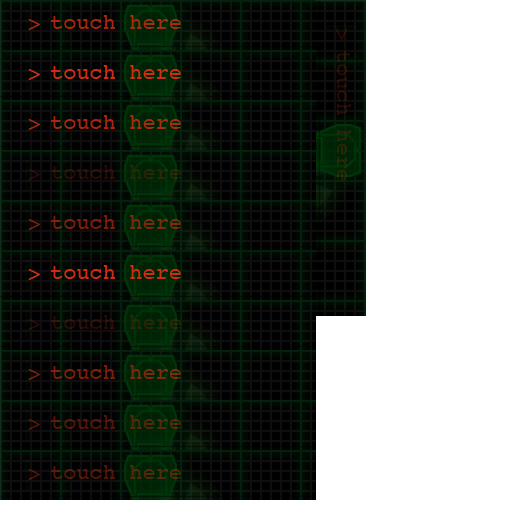
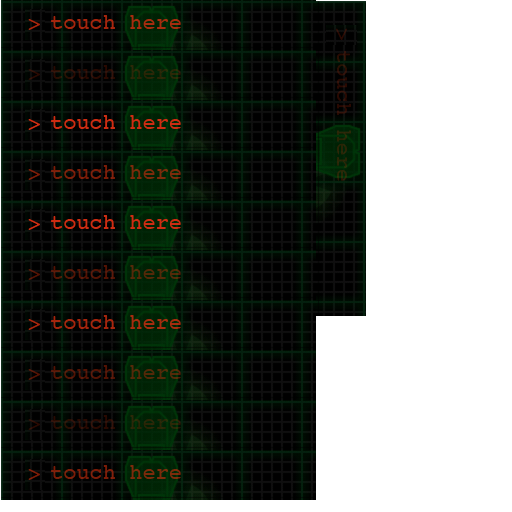
debugged tutorial animations

diff --git a/Classes/Views/IntroInstruction4Scene.m b/Classes/Views/IntroInstruction4Scene.m
@@ -8,6 +8,7 @@
 //-----------------------------------------------------------------------------------------------------------------------------------
 #import "IntroInstruction4Scene.h"
 #import "IntroTerm5Scene.h"
+#import "AnimatedSprite.h"
 
 //-----------------------------------------------------------------------------------------------------------------------------------
 #define kMAX_TAPS               1
@@ -42,12 +43,12 @@
 //-----------------------------------------------------------------------------------------------------------------------------------
 - (void)showPrompt {
     self.readyForPrompt = NO;
-    CCSprite* progSprite = [CCSprite spriteWithFile:@"inst-put-pod.png"];
-    CCSprite* progSpriteSelected = [CCSprite spriteWithFile:@"inst-put-pod.png"];
+    AnimatedSprite* progSprite = [AnimatedSprite animationFromFile:@"inst-put-pod" withFrameCount:11 andDelay:0.1];
+    AnimatedSprite* progSpriteSelected = [AnimatedSprite animationFromFile:@"inst-put-pod" withFrameCount:11 andDelay:0.1];
     CCMenuItemLabel* nextItem = [CCMenuItemSprite itemFromNormalSprite:progSprite selectedSprite:progSpriteSelected target:self selector:@selector(touchPrompt)];
     CCMenu* menu = [CCMenu menuWithItems:nextItem, nil];
     [menu alignItemsHorizontallyWithPadding:0.0];
-    menu.position = CGPointMake(160.0, 289.0);
+    menu.position = CGPointMake(160.0, 288.0);
     menu.anchorPoint = CGPointMake(0.0, 0.0);
     [self addChild:menu z:0];
 }

diff --git a/Classes/Views/IntroInstruction1Scene.m b/Classes/Views/IntroInstruction1Scene.m
@@ -8,6 +8,7 @@
 //-----------------------------------------------------------------------------------------------------------------------------------
 #import "IntroInstruction1Scene.h"
 #import "IntroTerm2Scene.h"
+#import "AnimatedSprite.h"
 
 //-----------------------------------------------------------------------------------------------------------------------------------
 #define kMAX_TAPS               3
@@ -50,12 +51,12 @@
 //-----------------------------------------------------------------------------------------------------------------------------------
 - (void)showPrompt {
     self.readyForPrompt = NO;
-    CCSprite* progSprite = [CCSprite spriteWithFile:@"inst-move.png"];
-    CCSprite* progSpriteSelected = [CCSprite spriteWithFile:@"inst-move.png"];
+    AnimatedSprite* progSprite = [AnimatedSprite animationFromFile:@"inst-move" withFrameCount:11 andDelay:0.1];
+    AnimatedSprite* progSpriteSelected = [AnimatedSprite animationFromFile:@"inst-move" withFrameCount:11 andDelay:0.1];
     CCMenuItemLabel* nextItem = [CCMenuItemSprite itemFromNormalSprite:progSprite selectedSprite:progSpriteSelected target:self selector:@selector(touchPrompt)];
     CCMenu* menu = [CCMenu menuWithItems:nextItem, nil];
     [menu alignItemsHorizontallyWithPadding:0.0];
-    menu.position = CGPointMake(160.0, 389.0);
+    menu.position = CGPointMake(160.0, 388.0);
     menu.anchorPoint = CGPointMake(0.0, 0.0);
     [self addChild:menu z:0];
 }

diff --git a/Classes/Views/IntroInstruction2Scene.m b/Classes/Views/IntroInstruction2Scene.m
@@ -8,6 +8,7 @@
 //-----------------------------------------------------------------------------------------------------------------------------------
 #import "IntroInstruction2Scene.h"
 #import "IntroTerm3Scene.h"
+#import "AnimatedSprite.h"
 
 //-----------------------------------------------------------------------------------------------------------------------------------
 #define kMAX_TAPS               1
@@ -44,12 +45,12 @@
 //-----------------------------------------------------------------------------------------------------------------------------------
 - (void)showPrompt {
     self.readyForPrompt = NO;
-    CCSprite* progSprite = [CCSprite spriteWithFile:@"inst-move.png"];
-    CCSprite* progSpriteSelected = [CCSprite spriteWithFile:@"inst-move.png"];
+    AnimatedSprite* progSprite = [AnimatedSprite animationFromFile:@"inst-move" withFrameCount:11 andDelay:0.1];
+    AnimatedSprite* progSpriteSelected = [AnimatedSprite animationFromFile:@"inst-move" withFrameCount:11 andDelay:0.1];
     CCMenuItemLabel* nextItem = [CCMenuItemSprite itemFromNormalSprite:progSprite selectedSprite:progSpriteSelected target:self selector:@selector(touchPrompt)];
     CCMenu* menu = [CCMenu menuWithItems:nextItem, nil];
     [menu alignItemsHorizontallyWithPadding:0.0];
-    menu.position = CGPointMake(160.0, 389.0);
+    menu.position = CGPointMake(160.0, 388.0);
     menu.anchorPoint = CGPointMake(0.0, 0.0);
     [self addChild:menu z:0];
 }

diff --git a/Classes/Views/IntroInstruction3Scene.m b/Classes/Views/IntroInstruction3Scene.m
@@ -8,6 +8,7 @@
 //-----------------------------------------------------------------------------------------------------------------------------------
 #import "IntroInstruction3Scene.h"
 #import "IntroTerm4Scene.h"
+#import "AnimatedSprite.h"
 
 //-----------------------------------------------------------------------------------------------------------------------------------
 #define kMAX_TAPS               1
@@ -44,12 +45,12 @@
 //-----------------------------------------------------------------------------------------------------------------------------------
 - (void)showPrompt {
     self.readyForPrompt = NO;
-    CCSprite* progSprite = [CCSprite spriteWithFile:@"inst-move.png"];
-    CCSprite* progSpriteSelected = [CCSprite spriteWithFile:@"inst-move.png"];
+    AnimatedSprite* progSprite = [AnimatedSprite animationFromFile:@"inst-move" withFrameCount:11 andDelay:0.1];
+    AnimatedSprite* progSpriteSelected = [AnimatedSprite animationFromFile:@"inst-move" withFrameCount:11 andDelay:0.1];
     CCMenuItemLabel* nextItem = [CCMenuItemSprite itemFromNormalSprite:progSprite selectedSprite:progSpriteSelected target:self selector:@selector(touchPrompt)];
     CCMenu* menu = [CCMenu menuWithItems:nextItem, nil];
     [menu alignItemsHorizontallyWithPadding:0.0];
-    menu.position = CGPointMake(160.0, 389.0);
+    menu.position = CGPointMake(160.0, 388.0);
     menu.anchorPoint = CGPointMake(0.0, 0.0);
     [self addChild:menu z:0];
 }

diff --git a/Classes/Views/IntroTerm3Scene.m b/Classes/Views/IntroTerm3Scene.m
@@ -8,6 +8,7 @@
 //-----------------------------------------------------------------------------------------------------------------------------------
 #import "IntroTerm3Scene.h"
 #import "IntroInstruction3Scene.h"
+#import "AnimatedSprite.h"
 
 //-----------------------------------------------------------------------------------------------------------------------------------
 #define kMAX_TAPS               1
@@ -44,8 +45,8 @@
 //-----------------------------------------------------------------------------------------------------------------------------------
 - (void)showPrompt {
     self.readyForPrompt = NO;
-    CCSprite* progSprite = [CCSprite spriteWithFile:@"term-prompt.png"];
-    CCSprite* progSpriteSelected = [CCSprite spriteWithFile:@"term-prompt.png"];
+    AnimatedSprite* progSprite = [AnimatedSprite animationFromFile:@"term3-prompt" withFrameCount:11 andDelay:0.1];
+    AnimatedSprite* progSpriteSelected = [AnimatedSprite animationFromFile:@"term3-prompt" withFrameCount:11 andDelay:0.1];
     CCMenuItemLabel* nextItem = [CCMenuItemSprite itemFromNormalSprite:progSprite selectedSprite:progSpriteSelected target:self selector:@selector(touchPrompt)];
     CCMenu* menu = [CCMenu menuWithItems:nextItem, nil];
     [menu alignItemsHorizontallyWithPadding:0.0];

diff --git a/Classes/Views/IntroTerm4Scene.m b/Classes/Views/IntroTerm4Scene.m
@@ -8,6 +8,7 @@
 //-----------------------------------------------------------------------------------------------------------------------------------
 #import "IntroTerm4Scene.h"
 #import "IntroInstruction4Scene.h"
+#import "AnimatedSprite.h"
 
 //-----------------------------------------------------------------------------------------------------------------------------------
 #define kMAX_TAPS               1
@@ -42,8 +43,8 @@
 //-----------------------------------------------------------------------------------------------------------------------------------
 - (void)showPrompt {
     self.readyForPrompt = NO;
-    CCSprite* progSprite = [CCSprite spriteWithFile:@"term-prompt.png"];
-    CCSprite* progSpriteSelected = [CCSprite spriteWithFile:@"term-prompt.png"];
+    AnimatedSprite* progSprite = [AnimatedSprite animationFromFile:@"term4-prompt" withFrameCount:11 andDelay:0.1];
+    AnimatedSprite* progSpriteSelected = [AnimatedSprite animationFromFile:@"term4-prompt" withFrameCount:11 andDelay:0.1];
     CCMenuItemLabel* nextItem = [CCMenuItemSprite itemFromNormalSprite:progSprite selectedSprite:progSpriteSelected target:self selector:@selector(touchPrompt)];
     CCMenu* menu = [CCMenu menuWithItems:nextItem, nil];
     [menu alignItemsHorizontallyWithPadding:0.0];

diff --git a/Classes/Views/IntroTerm5Scene.m b/Classes/Views/IntroTerm5Scene.m
@@ -8,6 +8,7 @@
 //-----------------------------------------------------------------------------------------------------------------------------------
 #import "IntroTerm5Scene.h"
 #import "IntroMap3Scene.h"
+#import "AnimatedSprite.h"
 
 //-----------------------------------------------------------------------------------------------------------------------------------
 #define kMAX_TAPS               2
@@ -47,8 +48,8 @@
 //-----------------------------------------------------------------------------------------------------------------------------------
 - (void)showPrompt {
     self.readyForPrompt = NO;
-    CCSprite* progSprite = [CCSprite spriteWithFile:@"term-run.png"];
-    CCSprite* progSpriteSelected = [CCSprite spriteWithFile:@"term-run.png"];
+    AnimatedSprite* progSprite = [AnimatedSprite animationFromFile:@"term-run" withFrameCount:11 andDelay:0.1];
+    AnimatedSprite* progSpriteSelected = [AnimatedSprite animationFromFile:@"term-run" withFrameCount:11 andDelay:0.1];
     CCMenuItemLabel* nextItem = [CCMenuItemSprite itemFromNormalSprite:progSprite selectedSprite:progSpriteSelected target:self selector:@selector(touchPrompt)];
     CCMenu* menu = [CCMenu menuWithItems:nextItem, nil];
     [menu alignItemsHorizontallyWithPadding:0.0];

diff --git a/Classes/Views/IntroTerm2Scene.m b/Classes/Views/IntroTerm2Scene.m
@@ -45,8 +45,8 @@
 //-----------------------------------------------------------------------------------------------------------------------------------
 - (void)showPrompt {
     self.readyForPrompt = NO;
-    AnimatedSprite* progSprite = [AnimatedSprite animationFromFile:@"term1-prompt" withFrameCount:11 andDelay:0.1];
-    AnimatedSprite* progSpriteSelected = [AnimatedSprite animationFromFile:@"term1-prompt" withFrameCount:11 andDelay:0.1];
+    AnimatedSprite* progSprite = [AnimatedSprite animationFromFile:@"term2-prompt" withFrameCount:11 andDelay:0.1];
+    AnimatedSprite* progSpriteSelected = [AnimatedSprite animationFromFile:@"term2-prompt" withFrameCount:11 andDelay:0.1];
     CCMenuItemLabel* nextItem = [CCMenuItemSprite itemFromNormalSprite:progSprite selectedSprite:progSpriteSelected target:self selector:@selector(touchPrompt)];
     CCMenu* menu = [CCMenu menuWithItems:nextItem, nil];
     [menu alignItemsHorizontallyWithPadding:0.0];
